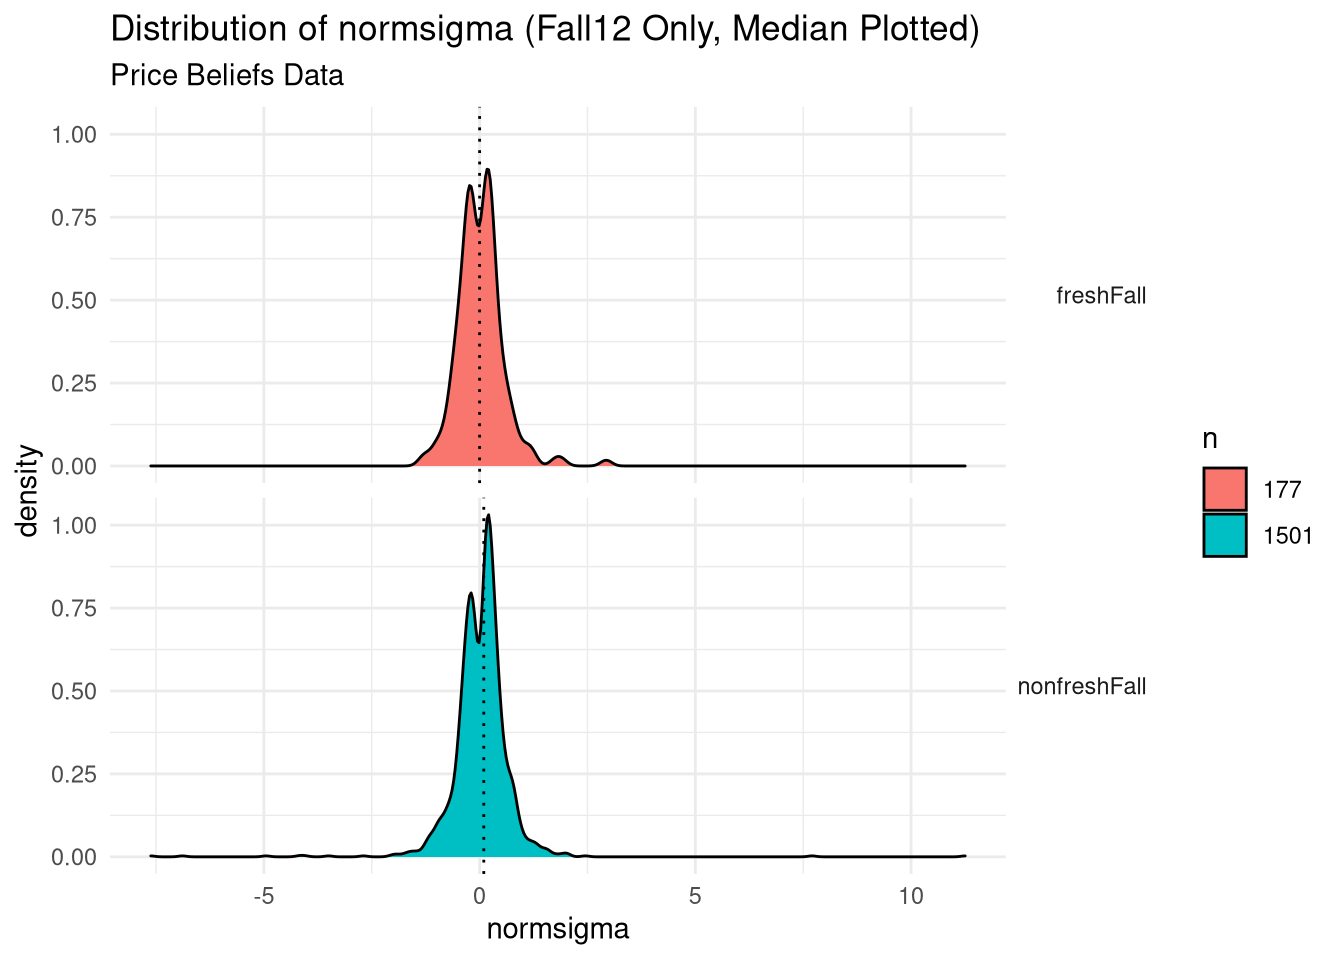
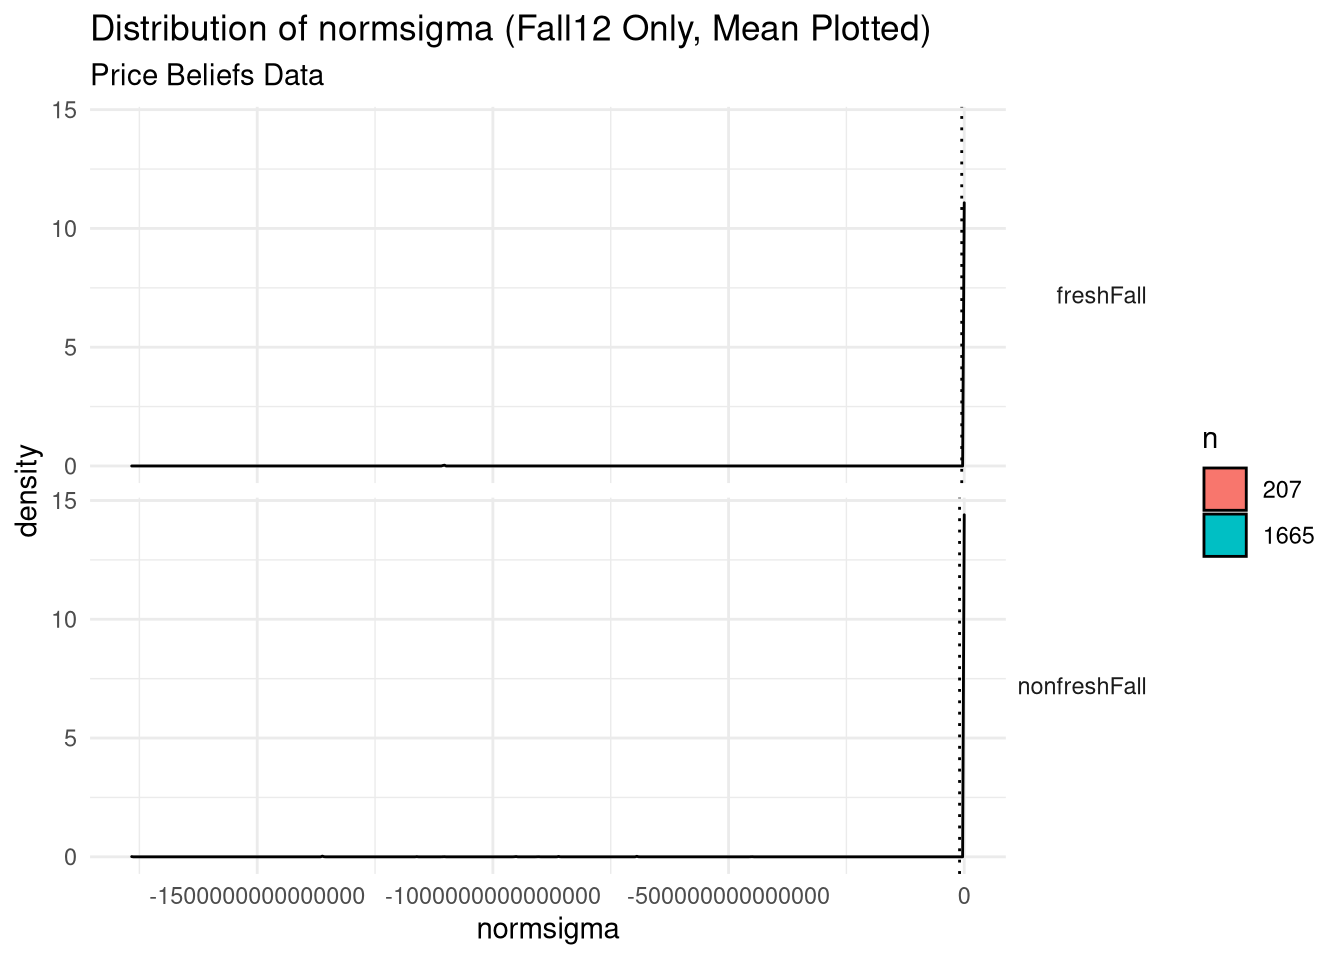
Build site.

diff --git a/docs/summaryStats.html b/docs/summaryStats.html
@@ -413,7 +413,7 @@ div.tocify {
 <div class="tab-content">
 <div id="summary" class="tab-pane fade in active">
 <p>
-<strong>Last updated:</strong> 2020-05-05
+<strong>Last updated:</strong> 2020-05-11
 </p>
 <p>
 <strong>Checks:</strong> <span class="glyphicon glyphicon-ok text-success" aria-hidden="true"></span> 7 <span class="glyphicon glyphicon-exclamation-sign text-danger" aria-hidden="true"></span> 0
@@ -504,16 +504,16 @@ This reproducible <a href="http://rmarkdown.rstudio.com">R Markdown</a> analysis
 <div class="panel panel-default">
 <div class="panel-heading">
 <p class="panel-title">
-<a data-toggle="collapse" data-parent="#workflowr-checks" href="#strongRepositoryversionstrongahrefhttpsgithubcomshugamoecleanittreed2e86299920876b3cc74005b21867eff5f4fb97ftargetblankd2e8629a"> <span class="glyphicon glyphicon-ok text-success" aria-hidden="true"></span> <strong>Repository version:</strong> <a href="https://github.com/shugamoe/cleanit/tree/d2e86299920876b3cc74005b21867eff5f4fb97f" target="_blank">d2e8629</a> </a>
+<a data-toggle="collapse" data-parent="#workflowr-checks" href="#strongRepositoryversionstrongahrefhttpsgithubcomshugamoecleanittree78e38f6e37d19820ae5b794d87fdc4cb1f8891b5targetblank78e38f6a"> <span class="glyphicon glyphicon-ok text-success" aria-hidden="true"></span> <strong>Repository version:</strong> <a href="https://github.com/shugamoe/cleanit/tree/78e38f6e37d19820ae5b794d87fdc4cb1f8891b5" target="_blank">78e38f6</a> </a>
 </p>
 </div>
[2 lines of base64/hex data omitted]
 <div class="panel-body">
 <p>
 Great! You are using Git for version control. Tracking code development and connecting the code version to the results is critical for reproducibility.
 </p>
 <p>
-The results in this page were generated with repository version <a href="https://github.com/shugamoe/cleanit/tree/d2e86299920876b3cc74005b21867eff5f4fb97f" target="_blank">d2e8629</a>. See the <em>Past versions</em> tab to see a history of the changes made to the R Markdown and HTML files.
+The results in this page were generated with repository version <a href="https://github.com/shugamoe/cleanit/tree/78e38f6e37d19820ae5b794d87fdc4cb1f8891b5" target="_blank">78e38f6</a>. See the <em>Past versions</em> tab to see a history of the changes made to the R Markdown and HTML files.
 </p>
 <p>
 Note that you need to be careful to ensure that all relevant files for the analysis have been committed to Git prior to generating the results (you can use <code>wflow_publish</code> or <code>wflow_git_commit</code>). workflowr only checks the R Markdown file, but you know if there are other scripts or data files that it depends on. Below is the status of the Git repository when the results were generated:
@@ -569,6 +569,40 @@ Message
 </tr>
 </thead>
 <tbody>
+<tr>
+<td>
+Rmd
+</td>
+<td>
+<a href="https://github.com/shugamoe/cleanit/blob/78e38f6e37d19820ae5b794d87fdc4cb1f8891b5/analysis/summaryStats.Rmd" target="_blank">78e38f6</a>
+</td>
+<td>
+Julian McClellan
+</td>
+<td>
+2020-05-11
+</td>
+<td>
+Sigma/mu calculations typo fixed. Means instead of medians plotted
+</td>
+</tr>
+<tr>
+<td>
+html
+</td>
+<td>
+<a href="https://rawcdn.githack.com/shugamoe/cleanit/afe8645c9c01a392a8ee23024bda3fbc9aa65a4c/docs/summaryStats.html" target="_blank">afe8645</a>
+</td>
+<td>
+Julian McClellan
+</td>
+<td>
+2020-05-05
+</td>
+<td>
+Build site.
+</td>
+</tr>
 <tr>
 <td>
 Rmd
@@ -1204,8 +1238,8 @@ wflow_publish(knitr_in(“analysis/summaryStats.Rmd”), view = T, verbose
 </ul></li>
 <li><code>mu</code> and <code>sigma</code> columns created to enable log-normal price distribution comparisons of respondent’s price distribution for new books. (Uses <code>newexp</code>)
 <ul>
-<li><code>mu</code>: 741 observations with <code>NA</code>, <code>NaN</code>, or <code>Inf</code> responses in the final data.</li>
-<li><code>sigma</code>: 676 observations with <code>NA</code>, <code>NaN</code>, or <code>Inf</code> responses in the final data.</li>
+<li><code>mu</code>: 388 observations with <code>NA</code>, <code>NaN</code>, or <code>Inf</code> responses in the final data.</li>
+<li><code>sigma</code>: 317 observations with <code>NA</code>, <code>NaN</code>, or <code>Inf</code> responses in the final data.</li>
 <li>Normalized <code>normmu</code> also available. (Utilizes <code>newexpratio</code> instead of <code>newexp</code>.)</li>
 </ul></li>
 <li>Removed responses from those with more than 10 semesters of college (267 in raw data.)
@@ -1340,6 +1374,17 @@ Date
 <tbody>
 <tr>
 <td>
+<a href="https://github.com/shugamoe/cleanit/blob/afe8645c9c01a392a8ee23024bda3fbc9aa65a4c/docs/figure/summaryStats.Rmd/mu_sigma_dists_better-3.png" target="_blank">afe8645</a>
+</td>
+<td>
+Julian McClellan
+</td>
+<td>
+2020-05-05
+</td>
+</tr>
+<tr>
+<td>
 <a href="https://github.com/shugamoe/cleanit/blob/ed2ef9796f47e7b1c6920a06807277affbb23271/docs/figure/summaryStats.Rmd/mu_sigma_dists_better-3.png" target="_blank">ed2ef97</a>
 </td>
 <td>
@@ -1387,6 +1432,17 @@ Date
 </tr>
 </thead>
 <tbody>
+<tr>
+<td>
+<a href="https://github.com/shugamoe/cleanit/blob/afe8645c9c01a392a8ee23024bda3fbc9aa65a4c/docs/figure/summaryStats.Rmd/mu_sigma_dists_better-4.png" target="_blank">afe8645</a>
+</td>
+<td>
+Julian McClellan
+</td>
+<td>
+2020-05-05
+</td>
+</tr>
 <tr>
 <td>
 <a href="https://github.com/shugamoe/cleanit/blob/ed2ef9796f47e7b1c6920a06807277affbb23271/docs/figure/summaryStats.Rmd/mu_sigma_dists_better-4.png" target="_blank">ed2ef97</a>
@@ -1438,6 +1494,17 @@ Date
 <tbody>
 <tr>
 <td>
+<a href="https://github.com/shugamoe/cleanit/blob/afe8645c9c01a392a8ee23024bda3fbc9aa65a4c/docs/figure/summaryStats.Rmd/mu_sigma_dists_better-5.png" target="_blank">afe8645</a>
+</td>
+<td>
+Julian McClellan
+</td>
+<td>
+2020-05-05
+</td>
+</tr>
+<tr>
+<td>
 <a href="https://github.com/shugamoe/cleanit/blob/ed2ef9796f47e7b1c6920a06807277affbb23271/docs/figure/summaryStats.Rmd/mu_sigma_dists_better-5.png" target="_blank">ed2ef97</a>
 </td>
 <td>
@@ -1485,6 +1552,17 @@ Date
 </tr>
 </thead>
 <tbody>
+<tr>
+<td>
+<a href="https://github.com/shugamoe/cleanit/blob/afe8645c9c01a392a8ee23024bda3fbc9aa65a4c/docs/figure/summaryStats.Rmd/mu_sigma_dists_better-6.png" target="_blank">afe8645</a>
+</td>
+<td>
+Julian McClellan
+</td>
+<td>
+2020-05-05
+</td>
+</tr>
 <tr>
 <td>
 <a href="https://github.com/shugamoe/cleanit/blob/ed2ef9796f47e7b1c6920a06807277affbb23271/docs/figure/summaryStats.Rmd/mu_sigma_dists_better-6.png" target="_blank">ed2ef97</a>
@@ -1536,6 +1614,17 @@ Date
 <tbody>
 <tr>
 <td>
+<a href="https://github.com/shugamoe/cleanit/blob/afe8645c9c01a392a8ee23024bda3fbc9aa65a4c/docs/figure/summaryStats.Rmd/mu_sigma_dists_better-7.png" target="_blank">afe8645</a>
+</td>
+<td>
+Julian McClellan
+</td>
+<td>
+2020-05-05
+</td>
+</tr>
+<tr>
+<td>
 <a href="https://github.com/shugamoe/cleanit/blob/ed2ef9796f47e7b1c6920a06807277affbb23271/docs/figure/summaryStats.Rmd/mu_sigma_dists_better-7.png" target="_blank">ed2ef97</a>
 </td>
 <td>
@@ -1585,6 +1674,17 @@ Date
 <tbody>
 <tr>
 <td>
+<a href="https://github.com/shugamoe/cleanit/blob/afe8645c9c01a392a8ee23024bda3fbc9aa65a4c/docs/figure/summaryStats.Rmd/mu_sigma_dists_better-8.png" target="_blank">afe8645</a>
+</td>
+<td>
+Julian McClellan
+</td>
+<td>
+2020-05-05
+</td>
+</tr>
+<tr>
+<td>
 <a href="https://github.com/shugamoe/cleanit/blob/ed2ef9796f47e7b1c6920a06807277affbb23271/docs/figure/summaryStats.Rmd/mu_sigma_dists_better-8.png" target="_blank">ed2ef97</a>
 </td>
 <td>
@@ -1609,7 +1709,6 @@ Julian McClellan
 </table>
 </div>
 </div>
-<p><img src="figure/summaryStats.Rmd/mu_sigma_dists_better-9.png" width="672" style="display: block; margin: auto;" /><img src="figure/summaryStats.Rmd/mu_sigma_dists_better-10.png" width="672" style="display: block; margin: auto;" /><img src="figure/summaryStats.Rmd/mu_sigma_dists_better-11.png" width="672" style="display: block; margin: auto;" /><img src="figure/summaryStats.Rmd/mu_sigma_dists_better-12.png" width="672" style="display: block; margin: auto;" /></p>
 </div>
 <div id="ongoing-price-belief-work" class="section level3">
 <h3>Ongoing Price Belief Work</h3>
